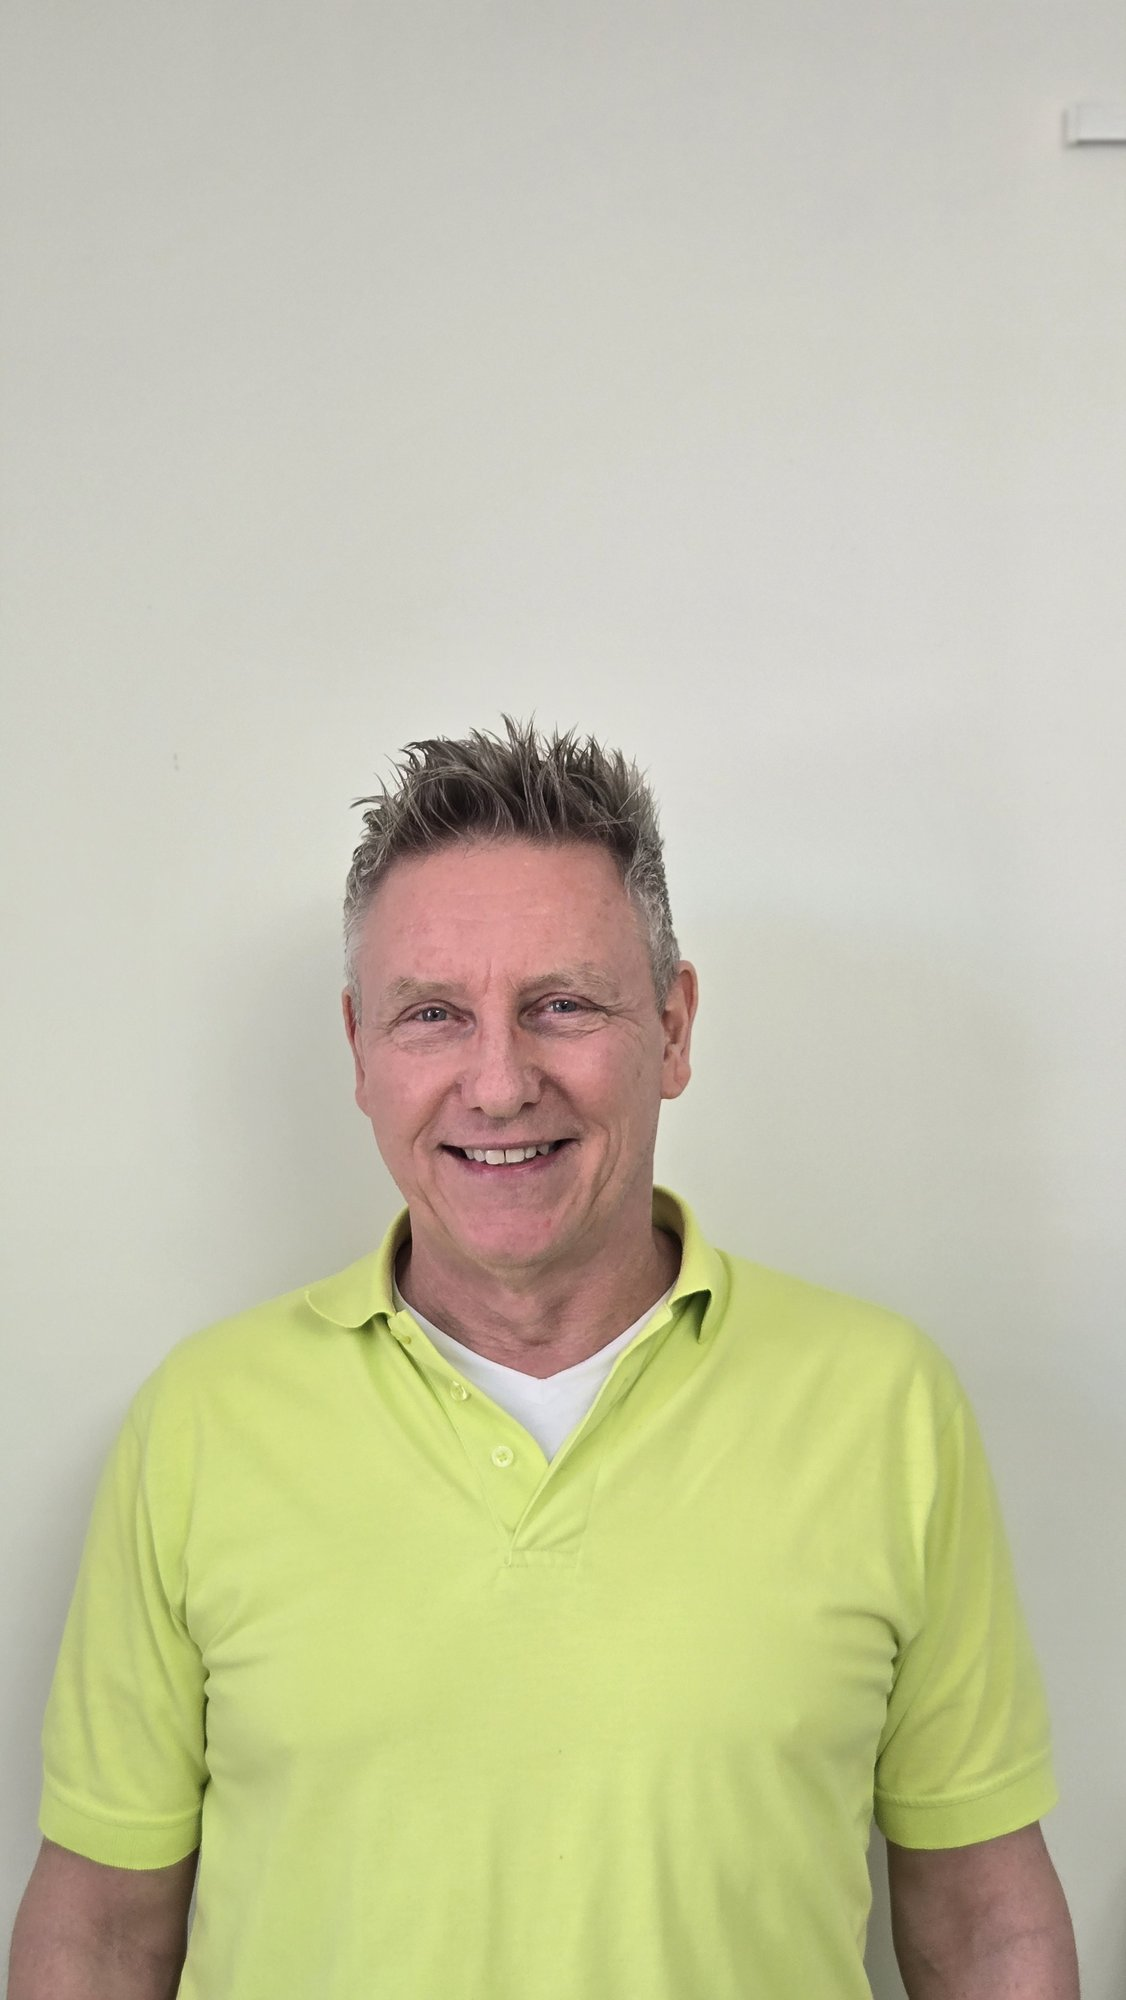
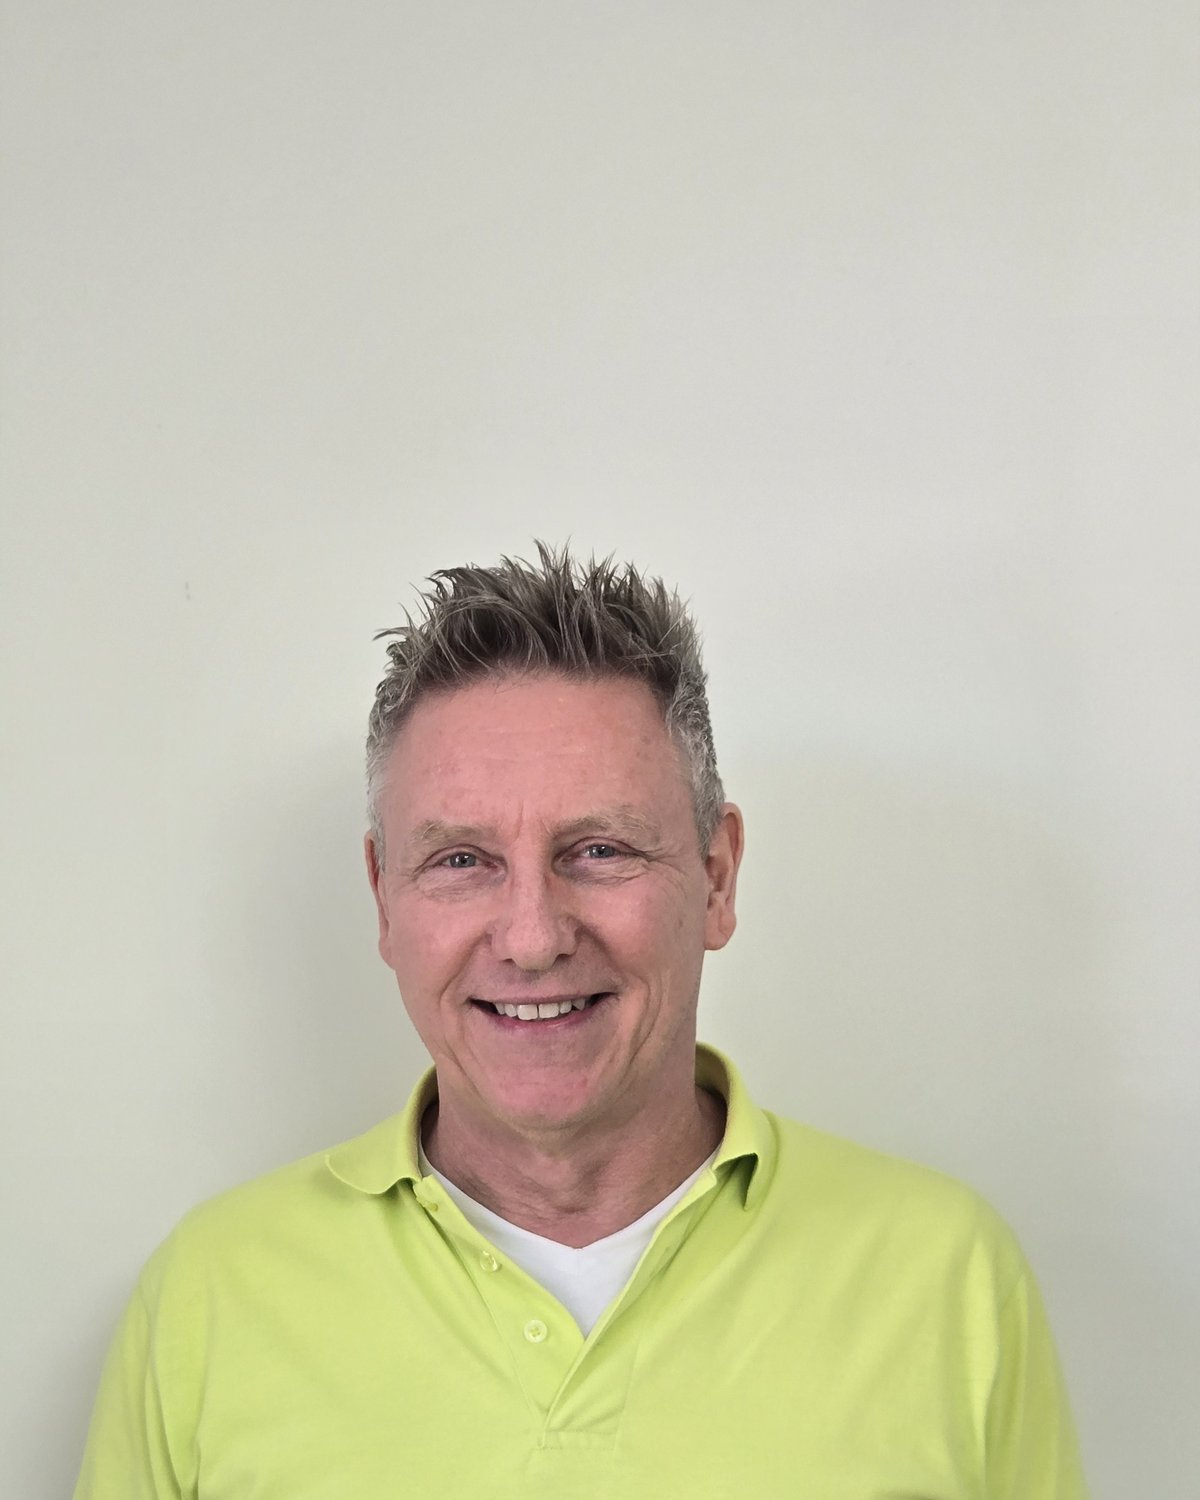
Revert Generel swap, pre-crop team portraits to kill empty wall
- Revert service-generel to scaler photo (was swapped without being asked)
- Team portraits: pre-crop to 4:5 at source with centering (0.5, 0.35) so
  face sits upper-mid and torso fills lower half, eliminating the
  "floating head with wall above" effect

Changed region(s): [[0.0, 0.3373, 1.0, 1.0], [0.9636, 0.7053, 1.0, 0.736], [0.9636, 0.0613, 1.0, 0.092]]

diff --git a/normalize_photos.py b/normalize_photos.py
@@ -18,7 +18,7 @@ FINALISTS = {
     "allan-portrait.jpg":       "20260421_122611.jpg",
     "implantater-room.jpg":     "20260421_123449.jpg",
     "behandlinger-action.jpg":  "20260421_125938.jpg",
-    "service-generel.jpg":      "20260421_125010.jpg",
+    "service-generel.jpg":      "20260421_125812.jpg",
     "service-kirurgi.jpg":      "20260421_130219.jpg",
     "service-kroner.jpg":       "20260421_124225.jpg",
     "service-akut.jpg":         "20260421_131510.jpg",
@@ -35,6 +35,11 @@ QUALITY = 85
 SERVICE_SLOTS = {"service-generel.jpg", "service-kirurgi.jpg", "service-kroner.jpg", "service-akut.jpg"}
 SERVICE_SIZE = (1400, 700)  # 2:1 landscape
 
+# Team portraits: pre-crop to the card aspect (4:5) centered around upper-mid so
+# the face/shoulders fill the frame instead of leaving wall above the head.
+PORTRAIT_SLOTS = {"allan-portrait.jpg", "hana-portrait.jpg"}
+PORTRAIT_SIZE = (1200, 1500)  # 4:5 portrait, face-biased centering below
+
 for slot, src_name in FINALISTS.items():
     src_path = SRC / src_name
     dst_path = DST / slot
@@ -50,6 +55,10 @@ for slot, src_name in FINALISTS.items():
     # Crop/resize depending on slot
     if slot in SERVICE_SLOTS:
         img = ImageOps.fit(img, SERVICE_SIZE, Image.LANCZOS, centering=(0.5, 0.5))
+    elif slot in PORTRAIT_SLOTS:
+        # centering y=0.35 biases the crop upward so face sits in upper-middle
+        # of the card rather than leaving empty wall above the head
+        img = ImageOps.fit(img, PORTRAIT_SIZE, Image.LANCZOS, centering=(0.5, 0.35))
     elif max(img.size) > MAX_DIM:
         img.thumbnail((MAX_DIM, MAX_DIM), Image.LANCZOS)
     img.save(dst_path, "JPEG", quality=QUALITY, optimize=True)
